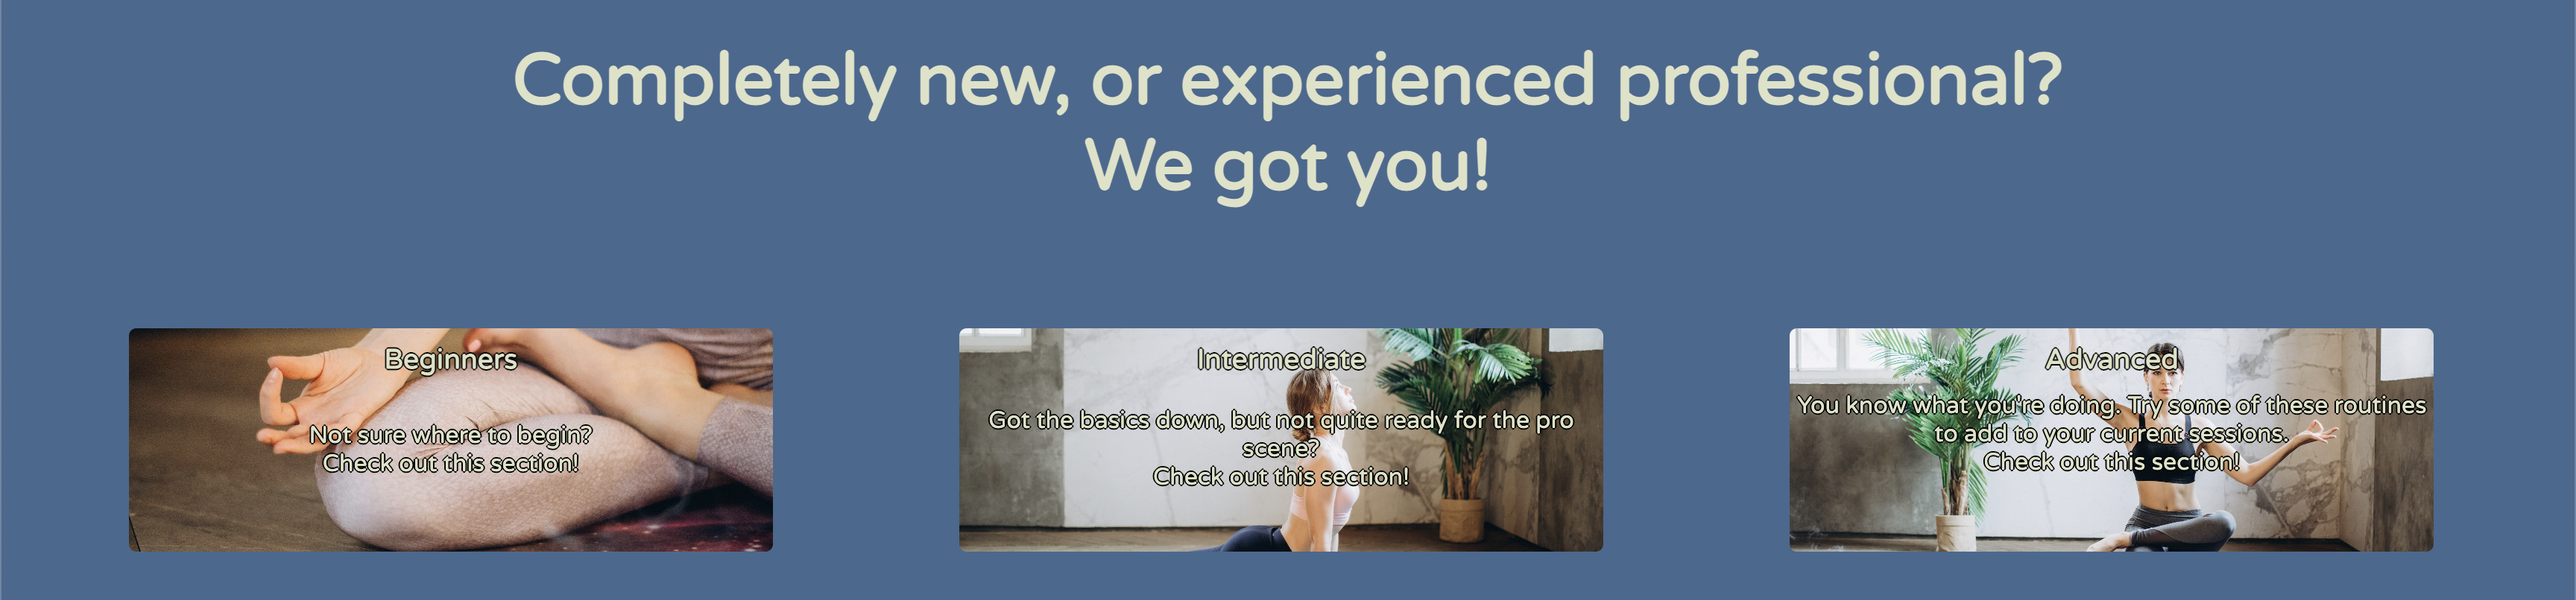
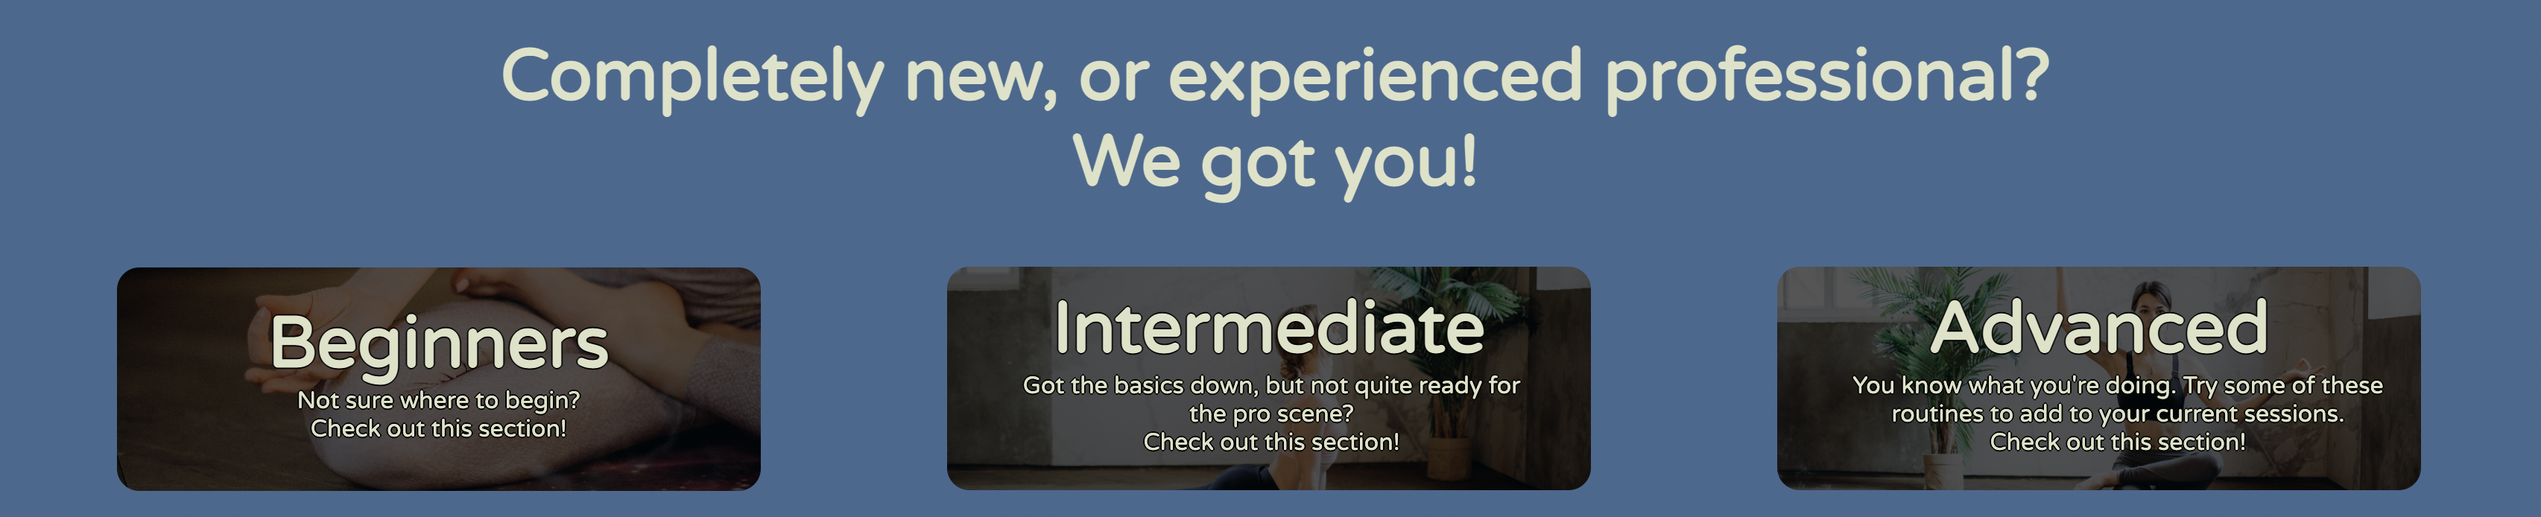
Edit readme and got new screenshots of updated changes

diff --git a/README.md b/README.md
@@ -10,16 +10,16 @@ This website is aimed at users that want to view meditation techniques and yoga 
 
 ![Nav Bar](media/nav-bar.png)
 
-- I went with a simple nav bar that had each page available from the start so you can get straight to where you want to go. This bar is available on every page in the same order to allow ease of access to where you need to be. When switchin to a tablet or mobile view the bar becomes stacked to still allow users to navigate to where they'd like to go. 
+- I went with a simple nav bar that had each page available from the start so you can get straight to where you want to go. This bar is available on every page in the same order to allow ease of access to where you need to be. When switchin to a tablet or mobile view the bar becomes stacked to still allow users to navigate to where they'd like to go. I also added resizing so when it's on mobile/tablet size the menu stacks and is in the middle of the screen.   
 
 ![Main Page](media/main-page.png)
 
-- I wanted the main picture to have the image of a silhouette of a person and kept her in the middle of the screen during the responsive tests and have the motto in the middle of her. 
-- The image and descriptions below give an idea of why and how you can be performing yoga and meditation to really emphasize to the user why they would want to come to this site for assistance no matter the experience level.
+- I wanted the main picture to have the image of a silhouette of a person and kept her in the middle of the screen during the responsive tests and have the motto in the middle of them. 
+- The image and descriptions below give an idea of why and how you can be performing yoga and meditation to really emphasize to the user why they would want to come to this site for assistance no matter the experience level. I have added padding to make it easier to read and see.
 
 ![Experience Level Links](media/experience-level.png)
 
-- Here I have presented an easy way for users progressing through the website to go straight to their level without having to go back to the top of the page. They can click the entire box rather than just the text itself. I also gave the font a black outline to make it easier to read as the backgrounds had many colours to them. They are all responsive and the text gets smaller to accomodate the smaller size on tablet/mobile.
+- Here I have presented an easy way for users progressing through the website to go straight to their level without having to go back to the top of the page. I also gave the font a black outline and used the brightness filter to darken the background to make it easier to read.
 
 ![Footer](media/footer.png)
 
@@ -47,11 +47,13 @@ This website is aimed at users that want to view meditation techniques and yoga 
 
 - The nav bar was also reversing the order unless changed to flex and column-reverse. I realised I had also changed to id so when looking at the other pages it wasn't applying the changes and took a while to figure out a simple solution. 
 
-- Deploying the page initially the img's weren't loading even though they were in the assets/images folder. I had linked using '/assets/images/...' and took a minute to realise the /assets/ was supposed to be assets/images. 
+- Deploying the page initially the img's weren't loading even though they were in the assets/images folder. I had linked using '/assets/images/...' and took a minute to realise the /assets/ was supposed to be assets/images.
+
+- Getting the "Skills" background to have a lowered brightness initially made the text as well dark. I managed to get around this by using the ::before psuedo element.
 
 ### Validator Testing
 
-- I've used Nu HTML checker and have no errors after testing - https://validator.w3.org/nu/?doc=https%3A%2F%2Fkuurosu.github.io%2Finner_peace%2F
+- I've used Nu HTML checker and have no errors after testing. Just one warning which was to consider using a header in my about section. But as it didn't require one I have chosen to omit that. - https://validator.w3.org/nu/?doc=https%3A%2F%2Fkuurosu.github.io%2Finner_peace%2F
 
 - I've used W3C CSS Validation Service to confirm no errors after multiple testing and finding bugs - https://jigsaw.w3.org/css-validator/validator?uri=https%3A%2F%2Fkuurosu.github.io%2Finner_peace%2F&profile=css3svg&usermedium=all&warning=1&vextwarning=&lang=en
 
@@ -61,13 +63,9 @@ This website is aimed at users that want to view meditation techniques and yoga 
 
 - After using Lighthouse I can confirm that the accessbility for users are good.
 
-- Regarding performance, I need to efficiently encode the two images on the main page.
-
 ### Unfixed Bugs
 
 - I can't get the footer to stretch across the entire page unless it is fixed. Ideally I'd like to come back and fix the issue which I suspect is because of the layout I have done with the rest of index.html. 
-
-- I'd like to have the content boxes more center. At the moment I have to adjust the positon using padding and margin to keep it center when viewed on mobile/tablet.
 
 ## Deployment
 
